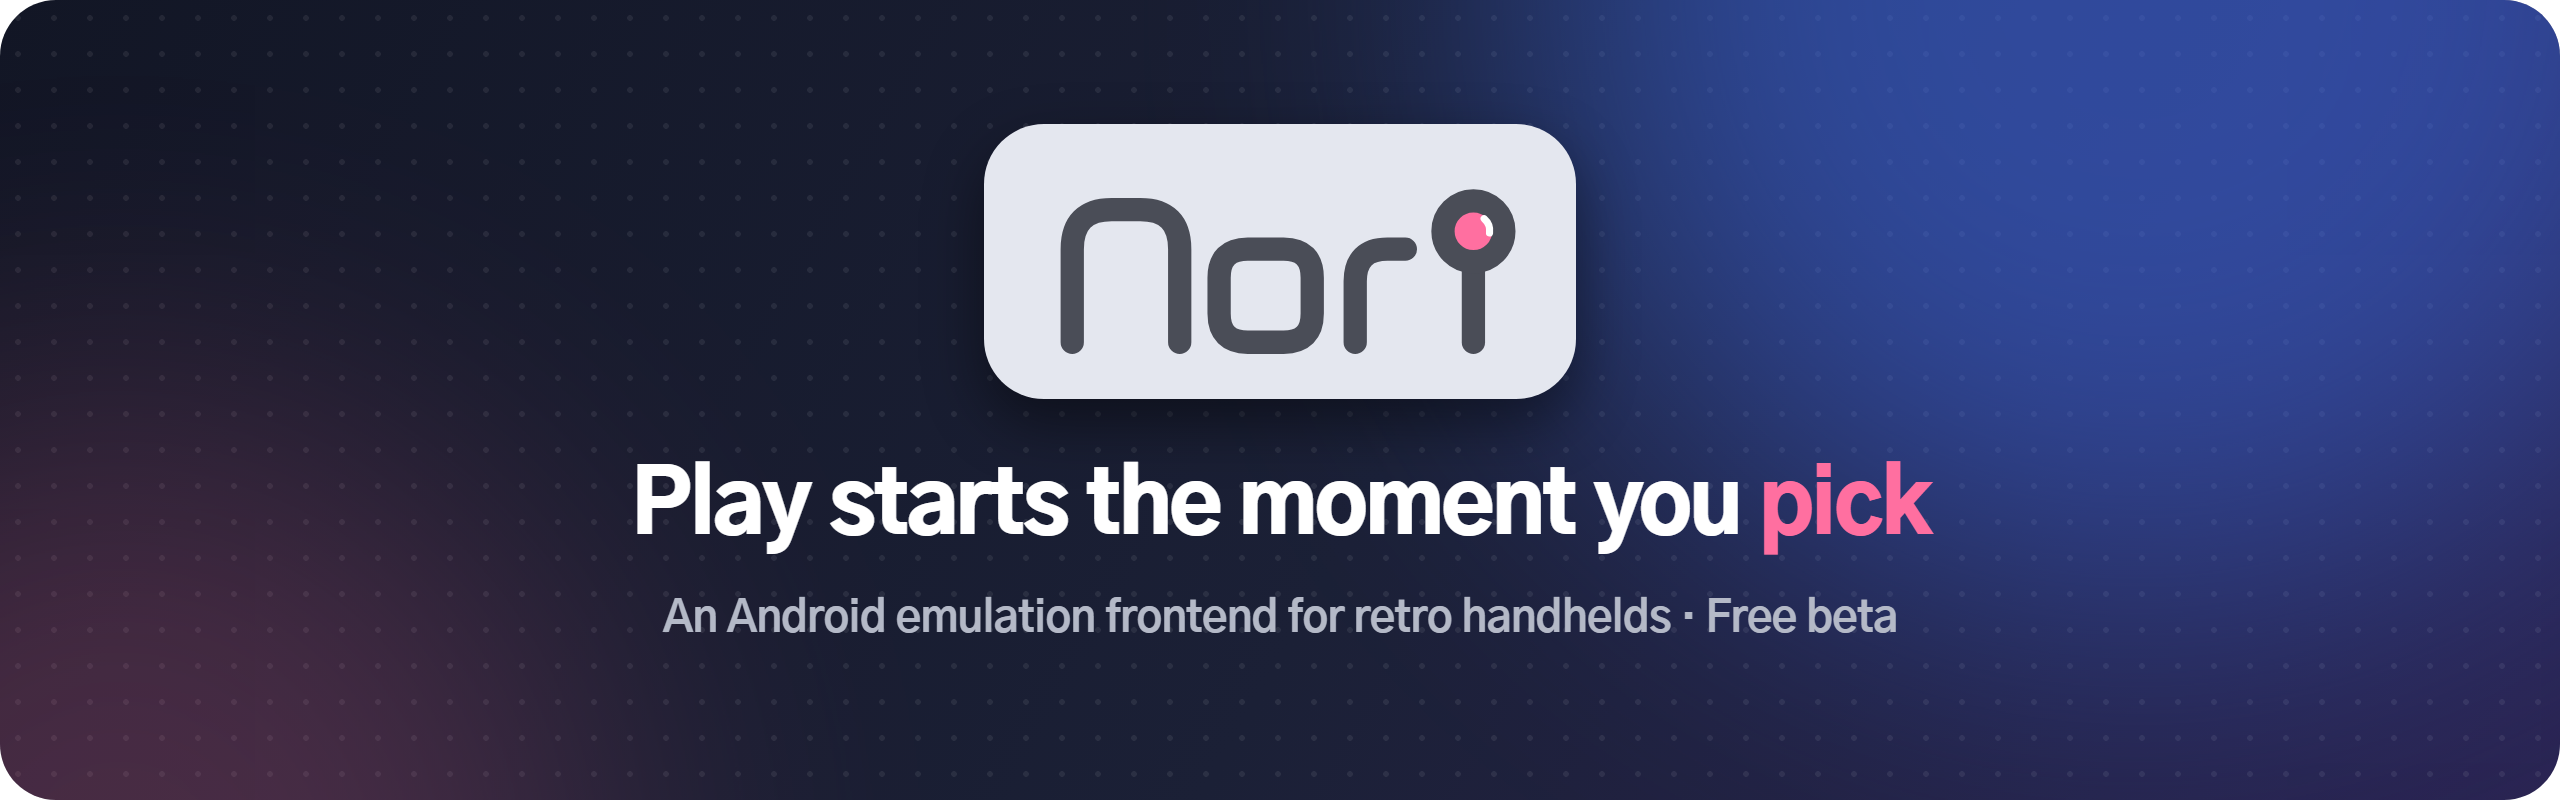
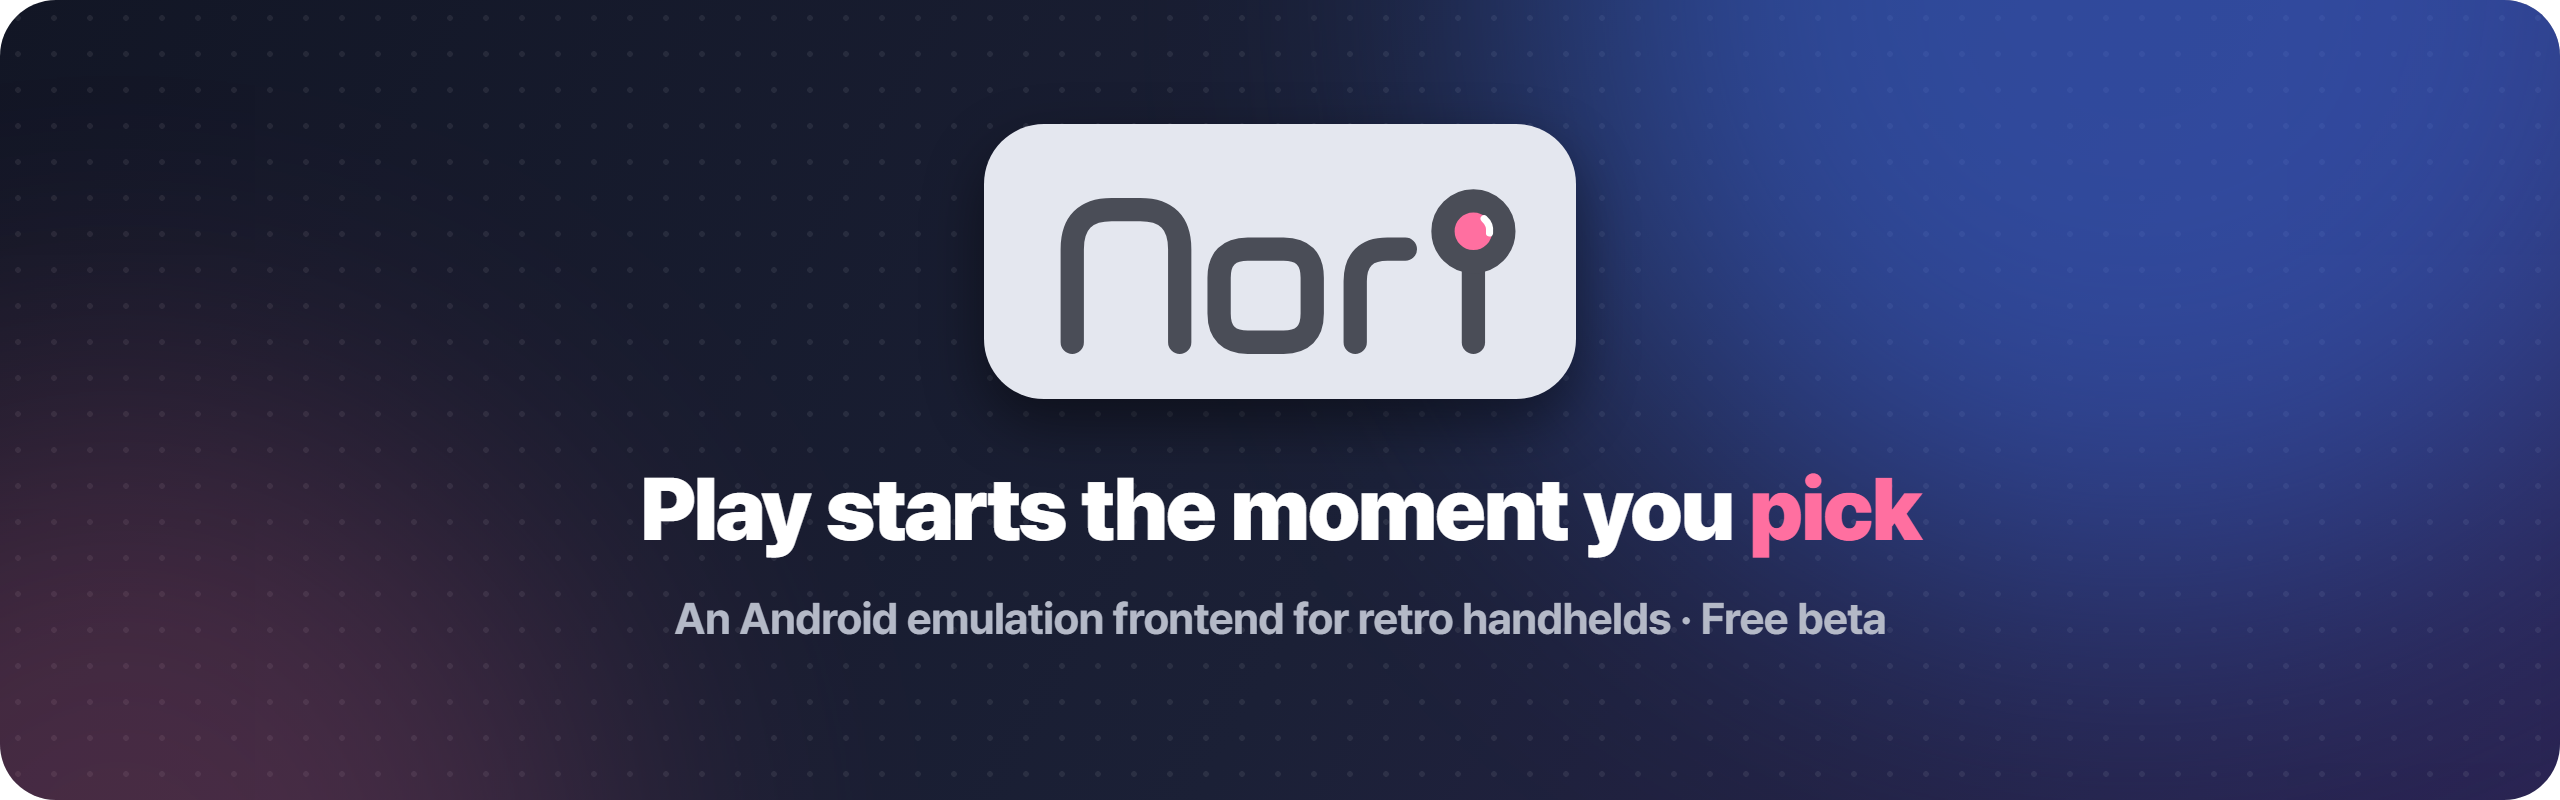
0.5.1: 새 기기 11개와 단독 앱 목록, 그림 글꼴을 프리텐다드로

Changed region(s): [[0.25, 0.5625, 0.75, 0.6875], [0.25, 0.75, 0.75, 0.8125]]

diff --git a/README.md b/README.md
@@ -205,6 +205,17 @@ Roms/
 | X68000 | `x68000` `x68k` |
 | PC-98 | `pc98` `pc9801` `pc-98` |
 | MS-DOS | `dos` `msdos` `pc` |
+| Atari 2600 | `atari2600` `a2600` |
+| Atari 7800 | `atari7800` `a7800` |
+| Atari Lynx | `atarilynx` `lynx` |
+| Atari Jaguar | `atarijaguar` `jaguar` |
+| Commodore 64 | `c64` `commodore64` |
+| ZX Spectrum | `zxspectrum` `zx` `spectrum` |
+| 3DO | `3do` |
+| Virtual Boy | `virtualboy` `vb` |
+| ColecoVision | `colecovision` `coleco` |
+| PICO-8 | `pico8` |
+| ScummVM | `scummvm` |
 | Arcade | `arcade` `mame…` `fbneo` `neogeo` `cps` `naomi` `atomiswave` `model2` `model3` `stv` |
 
 </details>
@@ -227,22 +238,28 @@ Roms/arcade/fbneo/gunbird.zip    ← FinalBurn Neo 칸
 
 | 기기 | 바로 연결되는 에뮬레이터 |
 | --- | --- |
-| PS2 | NetherSX2 / AetherSX2 |
-| PS3 | aPS3e, aPS3e Premium |
+| PS2 | NetherSX2 / AetherSX2, ARMSX2, Play!, EmuCoreX |
+| PS3 | aPS3e, aPS3e Premium, EmuCoreC |
 | PSP | PPSSPP, PPSSPP Gold |
 | PS Vita | Vita3K |
-| PS1 | DuckStation |
-| GameCube · Wii | Dolphin |
+| PS1 | DuckStation, ePSXe, FPse, FPseNG, ARMSX1 |
+| GameCube · Wii | Dolphin, Dolphin MMJR |
 | Wii U | Cemu |
 | Switch | Eden, Kenji-NX, Skyline |
-| 3DS | Azahar, Lime3DS |
-| NDS | melonDS |
+| 3DS | Azahar, AzaharPlus, Lime3DS, Citra, Mandarine, Panda3DS |
+| NDS | melonDS, DraStic, WatermelonDS, SeedlessDS, NooDS, SkyEmu |
+| N64 | M64Plus FZ, Mupen64Plus AE |
+| GBA | My Boy!, Pizza Boy GBA, GBA.emu, Linkboy, SkyEmu, NooDS |
+| GB · GBC | My OldBoy!, Pizza Boy GBC, GBC.emu, Linkboy, SkyEmu |
+| FC · SFC | NES.emu, iNES, Snes9x EX+ |
+| MD · SMS · GG | MD.emu, Pizza Boy SC, MasterGear |
 | Dreamcast | Redream, Flycast |
-| Saturn | Yaba Sanshiro 2 |
+| Saturn | Yaba Sanshiro 2, Saturn.emu |
+| PICO-8 | PICO-8, Pixl8, Infinity |
 | 아케이드 | RetroArch, MAME4droid, NEO.emu, Flycast |
 | 그 밖의 고전기 | RetroArch (코어는 RetroArch 안에서 먼저 받아 두세요. 코어가 없으면 오류 없이 멈출 수 있습니다) |
 
-- 목록에 없는 에뮬레이터는 「시스템 기본」을 고르면 실행할 때마다 열 앱을 고를 수 있습니다.
+- 목록에 없는 에뮬레이터는 고르기 창의 「다른 앱 직접 고르기」로 정합니다. 「시스템 기본」은 실행할 때마다 열 앱을 묻습니다.
 - 게임 하나만 다른 에뮬레이터로 열고 싶으면 게임 메뉴(X) → 「이 게임만 에뮬레이터 바꾸기」.
 - 안드로이드 앱(조이플레이, 일반 게임 앱)도 「Android」 묶음에 넣어 같이 띄울 수 있습니다.
 

diff --git a/README.en.md b/README.en.md
@@ -210,6 +210,17 @@ Roms/
 | X68000 | `x68000` `x68k` |
 | PC-98 | `pc98` `pc9801` `pc-98` |
 | MS-DOS | `dos` `msdos` `pc` |
+| Atari 2600 | `atari2600` `a2600` |
+| Atari 7800 | `atari7800` `a7800` |
+| Atari Lynx | `atarilynx` `lynx` |
+| Atari Jaguar | `atarijaguar` `jaguar` |
+| Commodore 64 | `c64` `commodore64` |
+| ZX Spectrum | `zxspectrum` `zx` `spectrum` |
+| 3DO | `3do` |
+| Virtual Boy | `virtualboy` `vb` |
+| ColecoVision | `colecovision` `coleco` |
+| PICO-8 | `pico8` |
+| ScummVM | `scummvm` |
 | Arcade | `arcade` `mame…` `fbneo` `neogeo` `cps` `naomi` `atomiswave` `model2` `model3` `stv` |
 
 </details>
@@ -232,21 +243,27 @@ Roms/arcade/fbneo/gunbird.zip    ← FinalBurn Neo
 
 | System | Emulators that work out of the box |
 | --- | --- |
-| PS2 | NetherSX2 / AetherSX2 |
-| PS3 | aPS3e, aPS3e Premium |
+| PS2 | NetherSX2 / AetherSX2, ARMSX2, Play!, EmuCoreX |
+| PS3 | aPS3e, aPS3e Premium, EmuCoreC |
 | PSP | PPSSPP, PPSSPP Gold |
 | PS Vita | Vita3K |
-| PS1 | DuckStation |
-| GameCube · Wii | Dolphin |
+| PS1 | DuckStation, ePSXe, FPse, FPseNG, ARMSX1 |
+| GameCube · Wii | Dolphin, Dolphin MMJR |
 | Wii U | Cemu |
 | Switch | Eden, Kenji-NX, Skyline |
-| 3DS | Azahar, Lime3DS |
-| NDS | melonDS |
+| 3DS | Azahar, AzaharPlus, Lime3DS, Citra, Mandarine, Panda3DS |
+| NDS | melonDS, DraStic, WatermelonDS, SeedlessDS, NooDS, SkyEmu |
+| N64 | M64Plus FZ, Mupen64Plus AE |
+| GBA | My Boy!, Pizza Boy GBA, GBA.emu, Linkboy, SkyEmu, NooDS |
+| GB · GBC | My OldBoy!, Pizza Boy GBC, GBC.emu, Linkboy, SkyEmu |
+| FC · SFC | NES.emu, iNES, Snes9x EX+ |
+| MD · SMS · GG | MD.emu, Pizza Boy SC, MasterGear |
 | Dreamcast | Redream, Flycast |
-| Saturn | Yaba Sanshiro 2 |
+| Saturn | Yaba Sanshiro 2, Saturn.emu |
+| PICO-8 | PICO-8, Pixl8, Infinity |
 | Other classic systems | RetroArch (download the cores inside RetroArch first) |
 
-- For an emulator that isn't listed, choose "System default" and Android will ask which app to open each time.
+- For an emulator that isn't listed, use "Choose another app" in the picker. "System default" asks which app to open each time.
 - To open just one game with a different emulator: game menu (X) → "Emulator for this game only".
 - Android apps (JoiPlay, regular games) can be added to the "Android" group and launched alongside everything else.
 
